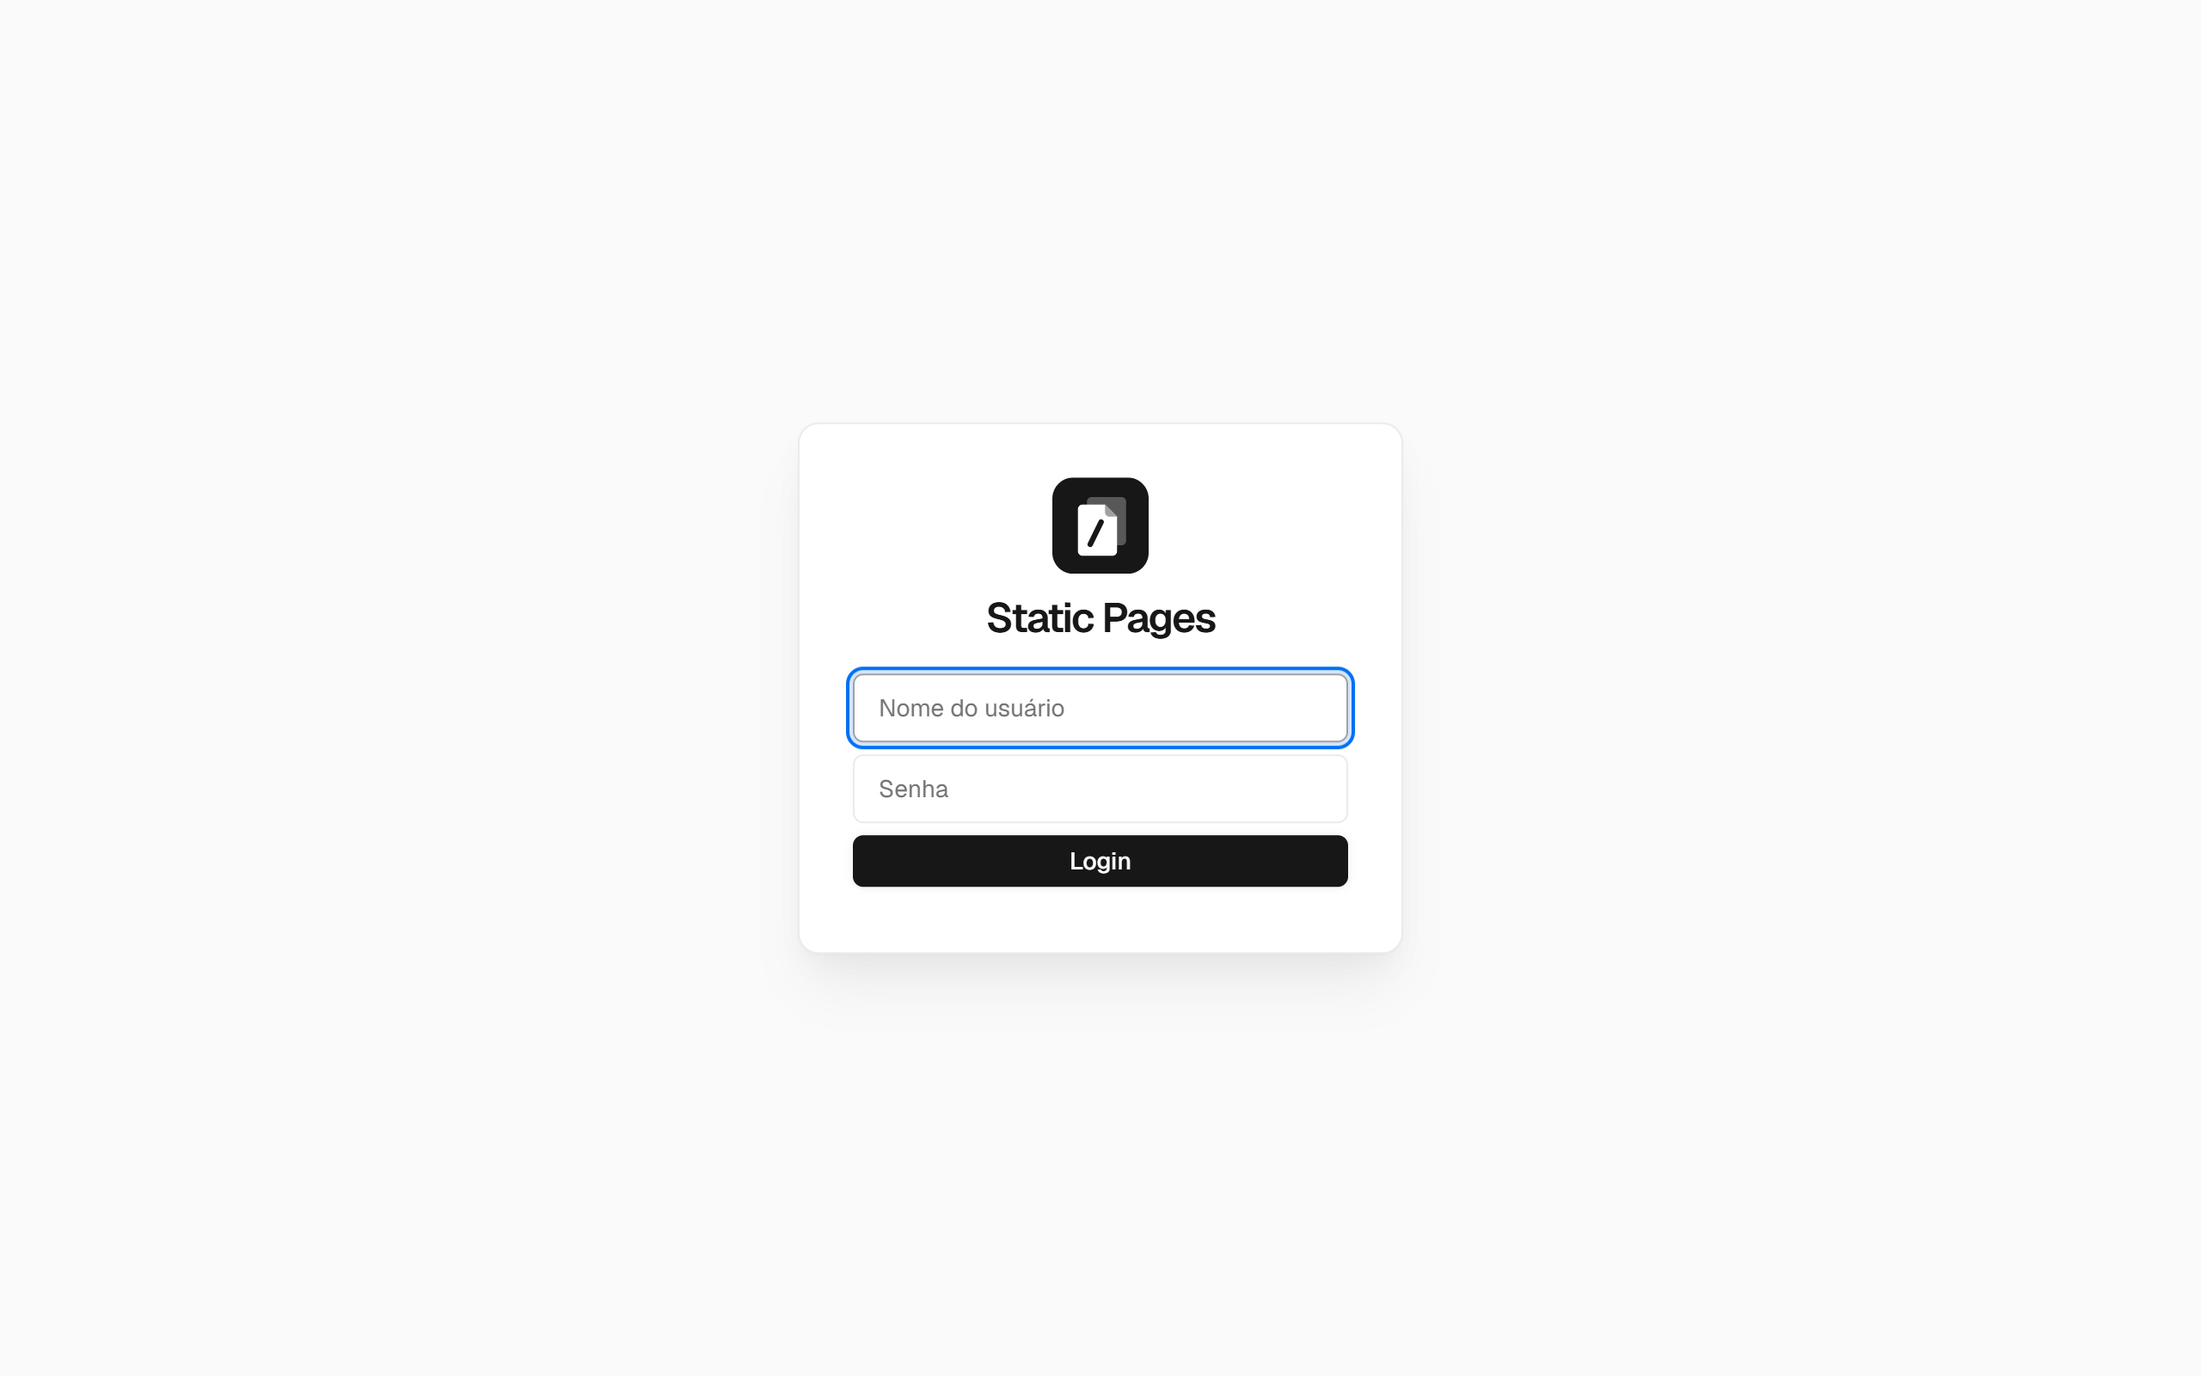
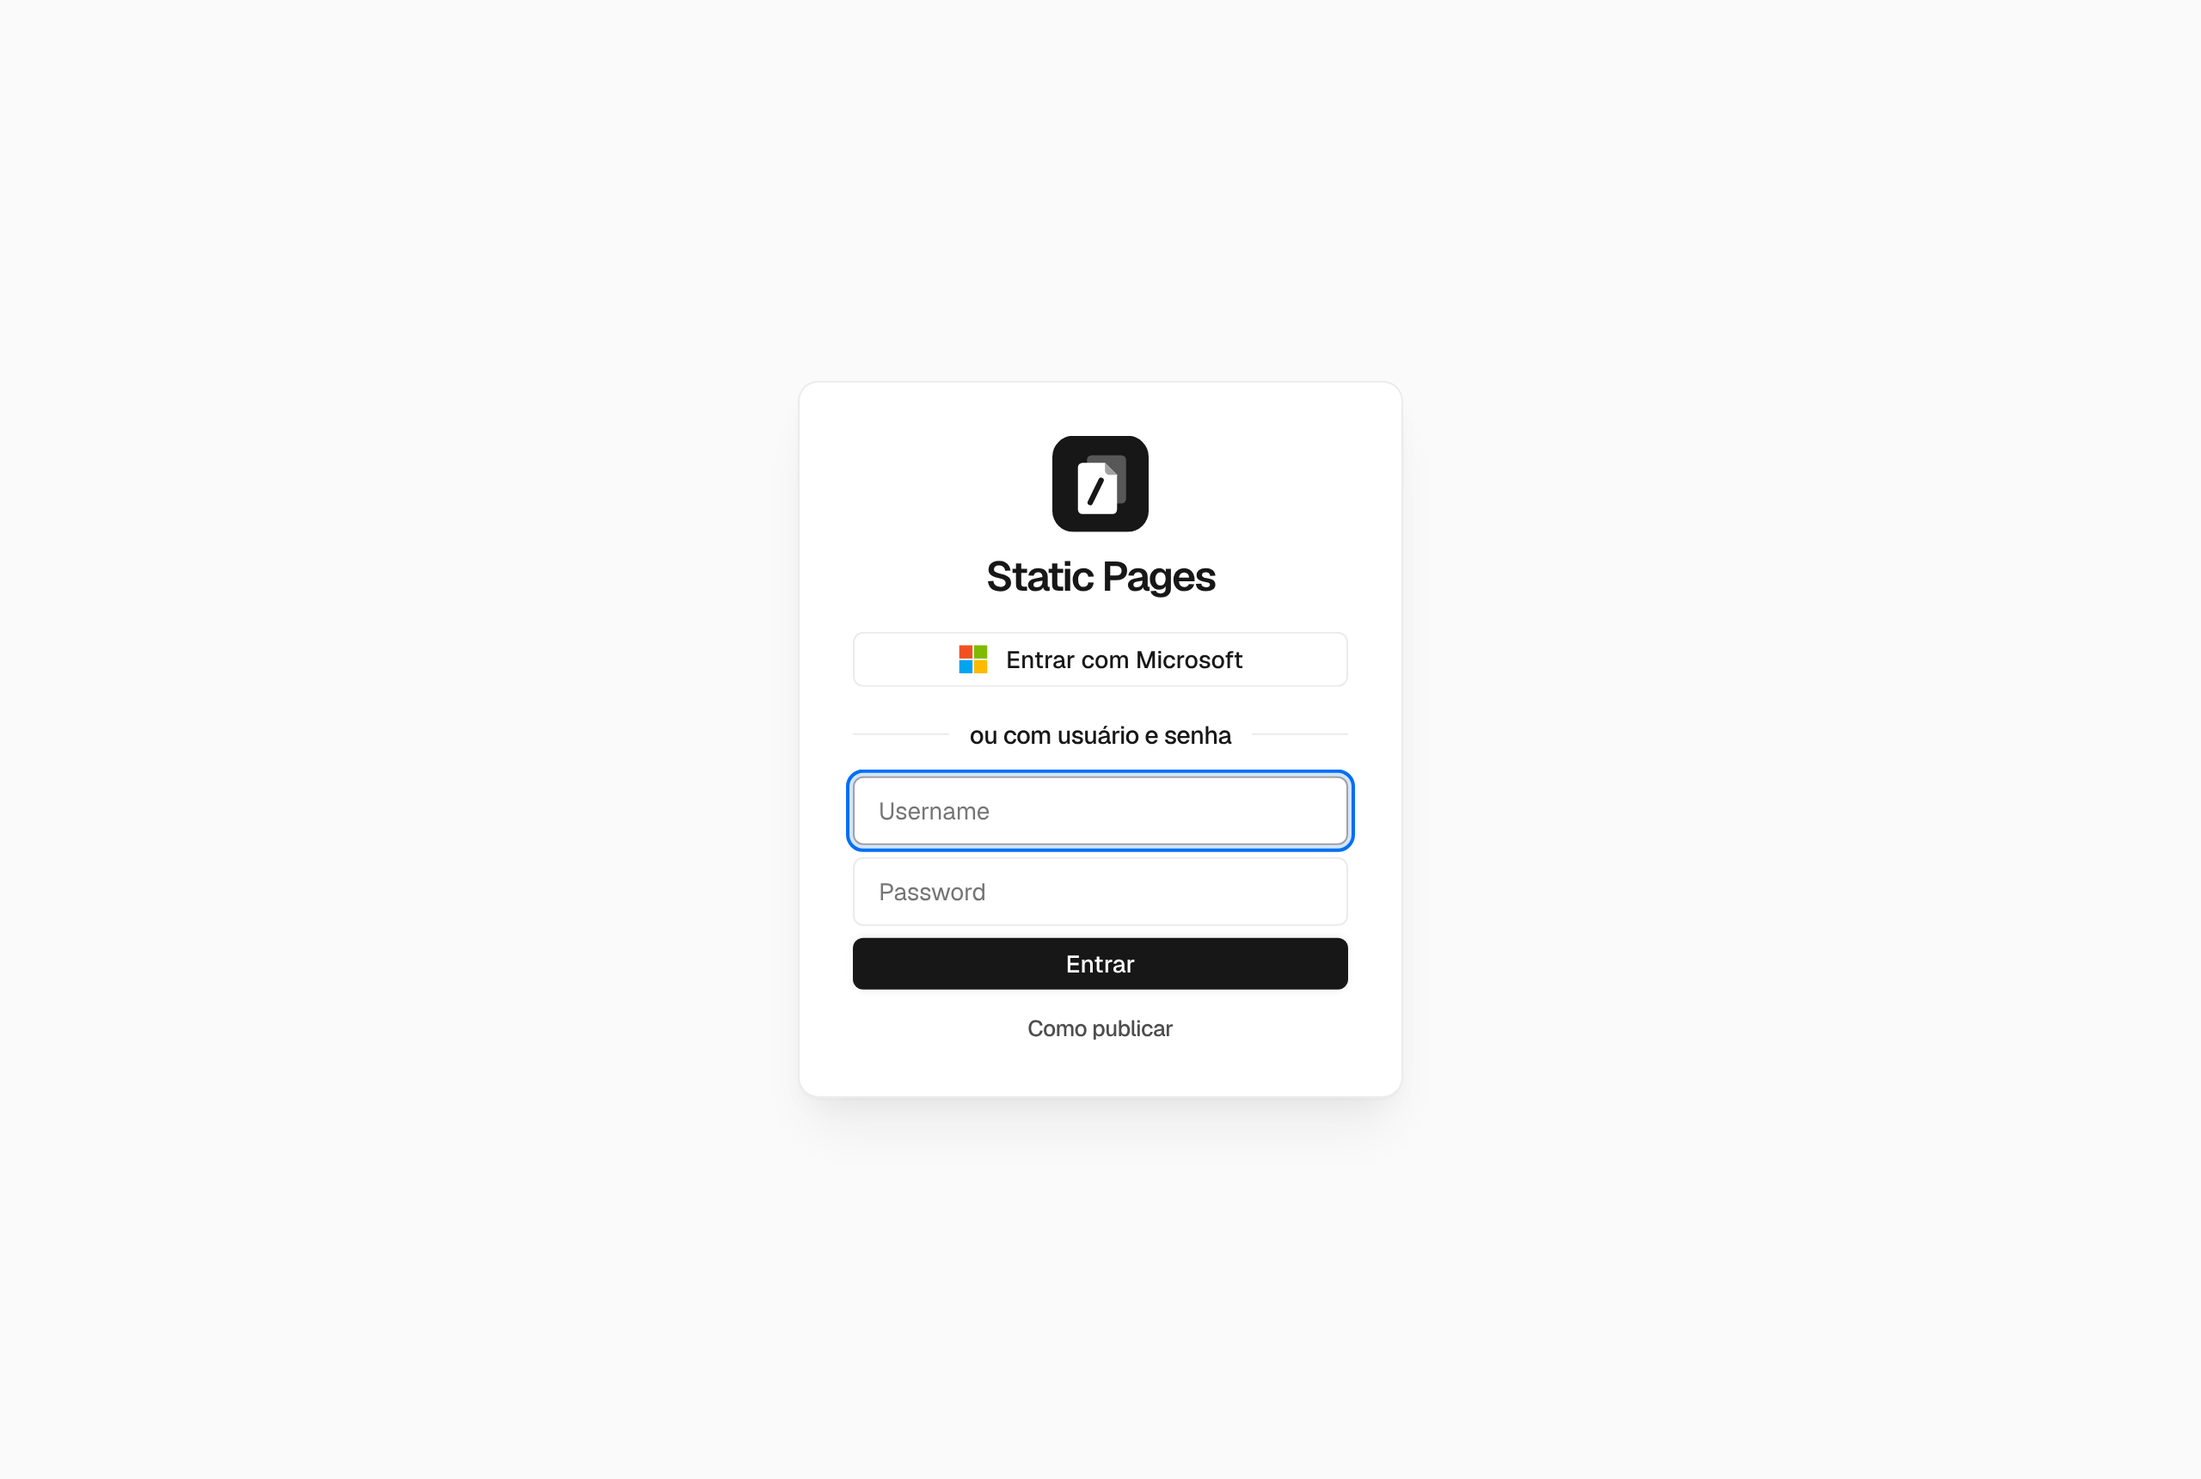
docs: README com prints das telas de acesso, cota, pedidos e guia
Novas capturas (dados fictícios): login com Microsoft, visão de membro com a
barra de espaço, Acessos e times, pessoas, Usuários, Pedidos, Atividade com
eventos de acesso e o guia. O script screenshots_acessos.py gera as telas de
acesso (cria pedidos com ID tokens de teste e limpa tudo no final); os outros
scripts aceitam BROWSER_PATH para rodar sem o Edge.

Changed region(s): [[0.375, 0.2812, 0.625, 0.7188]]

diff --git a/divulgacao/screenshots_acessos.py b/divulgacao/screenshots_acessos.py
@@ -1,0 +1,170 @@
+"""Prints das telas de acesso para o README (dados fictícios) -> docs/img/
+
+Telas: login com Microsoft, Acessos e times, pessoas do time, aba Usuários, aba Pedidos,
+Atividade (com eventos de acesso), visão de um membro (barra de espaço) e o guia /_ajuda/.
+
+Cria times, pessoas e pedidos de demonstração temporários (removidos no final) e simula o
+histórico interceptando a resposta, para que nenhum nome real do servidor apareça.
+Precisa de um container com o Entra de teste (ENTRA_TENANT_ID, ENTRA_CLIENT_ID e ENTRA_JWKS_FILE),
+porque os pedidos de acesso são criados com ID tokens assinados por uma chave de teste.
+
+Uso:  FB_ADMIN_PASSWORD=... SP_CONTAINER=static-pages BASE_URL=http://localhost:8080 \
+          python divulgacao/screenshots_acessos.py
+"""
+import base64
+import json
+import os
+import subprocess
+import sys
+import time
+import uuid
+from pathlib import Path
+
+import requests
+from cryptography.hazmat.primitives import hashes
+from cryptography.hazmat.primitives.asymmetric import padding, rsa
+
+sys.path.insert(0, str(Path(__file__).resolve().parent.parent / "tests"))
+from conftest import ADMIN_PASS, ADMIN_USER, BASE, CONTAINER, Api  # noqa: E402
+from playwright.sync_api import sync_playwright  # noqa: E402
+
+OUT = Path(__file__).parent.parent / "docs" / "img"
+ENTRA = f"{BASE}/admin/entra"
+SENHA = "SenhaDemo123456!"
+b64u = lambda b: base64.urlsafe_b64encode(b).rstrip(b"=").decode()
+
+TEAMS = {
+    "zz-vendas": ("Vendas", 500, ["ana.souza@exemplo.com", "bruno.lima@exemplo.com", "carla.dias@exemplo.com"], ["relatorio-mensal", "metas-2026"]),
+    "zz-marketing": ("Marketing", 1, ["diego.alves@exemplo.com"], ["campanha-verao"]),
+    "zz-produto": ("Produto", None, ["eva.martins@exemplo.com", "fabio.rocha@exemplo.com"], ["roadmap", "prototipo-app", "pesquisa-ux"]),
+}
+PEDIDOS = [("gustavo.nunes@exemplo.com", "Gustavo Nunes"), ("helena.prado@exemplo.com", "Helena Prado")]
+NOMES = {"ana.souza@exemplo.com": "Ana Souza", "bruno.lima@exemplo.com": "Bruno Lima", "carla.dias@exemplo.com": "Carla Dias",
+         "diego.alves@exemplo.com": "Diego Alves", "eva.martins@exemplo.com": "Eva Martins", "fabio.rocha@exemplo.com": "Fabio Rocha"}
+FAKE_LOG = "\n".join([
+    "2026-10-22T09:02:00Z\tana.souza@exemplo.com\tacesso_login\tEntrou com a conta Microsoft\t",
+    "2026-10-22T09:10:00Z\tgustavo.nunes@exemplo.com\tacesso_pedido\tPediu acesso (Gustavo Nunes)\t",
+    "2026-10-22T09:25:00Z\tadmin\tacesso_aprovado\tgustavo.nunes@exemplo.com no time Vendas\t",
+    "2026-10-22T10:05:00Z\tadmin\tacesso_papel\tbruno.lima@exemplo.com: Editor para Admin\t",
+    "2026-10-22T10:40:00Z\tdiego.alves@exemplo.com\tacesso_cota\tEnvio recusado: cota do time excedida (campanha.mp4)\t",
+    "2026-10-22T11:15:00Z\tana.souza@exemplo.com\tafter_upload\t/srv/vendas/relatorio-mensal/index.html\t",
+    "2026-10-22T11:42:00Z\teva.martins@exemplo.com\tafter_save\t/srv/produto/roadmap/index.html\t",
+]) + "\n"
+
+
+def entra_tokens():
+    """Gera as chaves de teste, grava o JWKS no container e devolve mint(email, nome)."""
+    cfg = requests.get(f"{ENTRA}/config", timeout=10).json()
+    if not cfg.get("habilitado"):
+        sys.exit("Entra ID desligado neste container")
+    run = lambda *c: subprocess.run(["docker", "exec", CONTAINER, *c], capture_output=True, text=True, check=True).stdout.strip()
+    tenant, jwks_path = run("printenv", "ENTRA_TENANT_ID"), run("printenv", "ENTRA_JWKS_FILE")
+    key = rsa.generate_private_key(public_exponent=65537, key_size=2048)
+    kid = f"demo-{uuid.uuid4().hex[:8]}"
+    nums = key.public_key().public_numbers()
+    jwks = {"keys": [{"kty": "RSA", "kid": kid, "use": "sig", "alg": "RS256", "n": b64u(nums.n.to_bytes(256, "big")), "e": b64u(nums.e.to_bytes(3, "big"))}]}
+    subprocess.run(["docker", "exec", "-i", CONTAINER, "sh", "-c", f"cat > {jwks_path} && chmod 644 {jwks_path}"], input=json.dumps(jwks).encode(), check=True)
+
+    def mint(email, nome):
+        now = int(time.time())
+        head = b64u(json.dumps({"alg": "RS256", "kid": kid, "typ": "JWT"}).encode())
+        body = b64u(json.dumps({"iss": f"https://login.microsoftonline.com/{tenant}/v2.0", "tid": tenant, "aud": cfg["clientId"], "iat": now, "nbf": now,
+                                "exp": now + 3600, "preferred_username": email, "name": nome, "jti": str(uuid.uuid4())}).encode())
+        return f"{head}.{body}.{b64u(key.sign(f'{head}.{body}'.encode(), padding.PKCS1v15(), hashes.SHA256()))}"
+    return mint
+
+
+def setup(api, mint):
+    creds = {}
+    for slug, (nome, cota, pessoas, paginas) in TEAMS.items():
+        api.write(f"/{slug}/.time.json", json.dumps({"nome": nome, **({"cota_mb": cota} if cota else {})}))
+        api.write(f"/{slug}/index.html", "<h1>time</h1>")
+        for p in paginas:
+            api.write(f"/{slug}/{p}/index.html", "<h1>pagina</h1>" + "x" * 40000)
+        for u in pessoas:
+            api.add_user(f"zz.{u}", SENHA, f"/{slug}")
+            # o login Microsoft guarda o nome (é o que a tela mostra) e troca a senha: guardamos a nova
+            r = requests.post(f"{ENTRA}/login", json={"idToken": mint(f"zz.{u}", NOMES[u])}, timeout=10)
+            creds[u] = r.json()
+    api.write("/zz-marketing/campanha-verao/dados.json", "x" * 680_000)   # ~70% da cota de 1 MB
+    for email, nome in PEDIDOS:
+        requests.post(f"{ENTRA}/solicitar", json={"idToken": mint(email, nome)}, timeout=10)
+    return creds
+
+
+def cleanup(api):
+    api.cleanup()
+    for email, _ in PEDIDOS:
+        requests.post(f"{ENTRA}/pedidos/remover", json={"email": email}, headers=api.h, timeout=10)
+
+
+def shoot():
+    OUT.mkdir(parents=True, exist_ok=True)
+    api = Api(ADMIN_USER, ADMIN_PASS)
+    api.cleanup()
+    mint = entra_tokens()
+    creds = setup(api, mint)
+    try:
+        with sync_playwright() as p:
+            b = p.chromium.launch(channel=os.environ.get("BROWSER_CHANNEL") or None, executable_path=os.environ.get("BROWSER_PATH") or None)
+            ctx = lambda h=860: b.new_context(viewport={"width": 1280, "height": h}, device_scale_factor=2)
+            # nomes "zz." e "/zz-" nunca aparecem: troca no DOM antes do print
+            clean = """() => { const w = document.createTreeWalker(document.body, NodeFilter.SHOW_TEXT);
+                for (let n; (n = w.nextNode());) n.nodeValue = n.nodeValue.replace(/\\bzz[.-]/g, ""); }"""
+
+            anon = ctx().new_page()
+            anon.goto(f"{BASE}/admin/login")
+            anon.wait_for_selector(".sp-entra button", timeout=15000)
+            anon.wait_for_timeout(600)
+            anon.screenshot(path=OUT / "login.png")
+            anon.goto(f"{BASE}/_ajuda/", wait_until="networkidle")
+            anon.screenshot(path=OUT / "guia.png", clip={"x": 0, "y": 0, "width": 1280, "height": 860})
+
+            pg = ctx().new_page()
+            pg.goto(f"{BASE}/admin/login")
+            pg.evaluate("t => localStorage.setItem('jwt', t)", api.token)
+            pg.goto(f"{BASE}/admin/times", wait_until="networkidle")
+            pg.wait_for_timeout(1500)
+            pg.evaluate(clean)
+            box = pg.locator("#teams-section").bounding_box()
+            pg.screenshot(path=OUT / "times.png", clip={"x": 0, "y": 0, "width": 1280, "height": box["y"] + box["height"] + 24})
+
+            pg.locator("article.card").first.locator(".team-title h3").click()
+            pg.wait_for_selector("#dlg-people[open]")
+            pg.evaluate(clean)
+            pg.wait_for_timeout(300)
+            pg.screenshot(path=OUT / "pessoas.png")
+            pg.click("#people-close")
+
+            pg.goto(f"{BASE}/admin/times#usuarios", wait_until="networkidle")
+            pg.wait_for_timeout(1200)
+            pg.evaluate(clean)
+            pg.screenshot(path=OUT / "usuarios.png", clip={"x": 0, "y": 0, "width": 1280, "height": 760})
+
+            pg.goto(f"{BASE}/admin/times#acessos", wait_until="networkidle")
+            pg.wait_for_timeout(1200)
+            pg.evaluate(clean)
+            pg.screenshot(path=OUT / "pedidos.png", clip={"x": 0, "y": 0, "width": 1280, "height": 560})
+
+            pg.route("**/admin/_auditoria", lambda r: r.fulfill(body=FAKE_LOG, content_type="text/plain"))
+            pg.goto(f"{BASE}/admin/times#atividade", wait_until="networkidle")
+            pg.wait_for_timeout(1000)
+            pg.evaluate(clean)
+            pg.screenshot(path=OUT / "atividade.png", clip={"x": 0, "y": 0, "width": 1280, "height": 660})
+
+            membro = Api(creds["diego.alves@exemplo.com"]["usuario"], creds["diego.alves@exemplo.com"]["senha"])
+            mp = ctx(600).new_page()
+            mp.goto(f"{BASE}/admin/login")
+            mp.evaluate("t => localStorage.setItem('jwt', t)", membro.token)
+            mp.goto(f"{BASE}/admin/files/", wait_until="networkidle")
+            mp.wait_for_timeout(1500)
+            mp.evaluate(clean)
+            mp.screenshot(path=OUT / "membro.png")
+            b.close()
+    finally:
+        cleanup(api)
+    print("ok:", sorted(f.name for f in OUT.glob("*.png")))
+
+
+if __name__ == "__main__":
+    shoot()

diff --git a/divulgacao/screenshots_painel.py b/divulgacao/screenshots_painel.py
@@ -1,4 +1,4 @@
-"""Prints das telas do painel para o README (dados fictícios) -> docs/img/
+"""Prints do painel (lixeira) para o README (dados fictícios; Acessos e Atividade: screenshots_acessos.py) -> docs/img/
 
 Cria times de demonstração temporários (removidos no final, inclusive da
 lixeira) e simula Atividade/Lixeira interceptando as respostas, para que
@@ -54,7 +54,7 @@ def shoot():
     setup(api)
     try:
         with sync_playwright() as p:
-            b = p.chromium.launch(channel=os.environ.get("BROWSER_CHANNEL") or None)
+            b = p.chromium.launch(channel=os.environ.get("BROWSER_CHANNEL") or None, executable_path=os.environ.get("BROWSER_PATH") or None)
             pg = b.new_page(viewport={"width": 1280, "height": 860}, device_scale_factor=2)
             pg.goto(f"{BASE}/admin/login")
             pg.evaluate("t => localStorage.setItem('jwt', t)", api.token)
@@ -67,12 +67,6 @@ def shoot():
                   if (a && name) a.textContent = name.textContent.charAt(0);
                 }); }"""
 
-            pg.goto(f"{BASE}/admin/times", wait_until="networkidle")
-            pg.wait_for_timeout(1200)
-            pg.evaluate(clean)
-            box = pg.locator("#teams-section").bounding_box()
-            pg.screenshot(path=OUT / "times.png", clip={"x": 0, "y": 0, "width": 1280, "height": box["y"] + box["height"] + 24})
-
             pg.route("**/admin/api/raw/_lixeira/.registro", lambda r: r.fulfill(body=FAKE_TRASH, content_type="text/plain"))
             pg.route("**/admin/_auditoria", lambda r: r.fulfill(body=FAKE_LOG, content_type="text/plain"))
             pg.goto(f"{BASE}/admin/times#lixeira", wait_until="networkidle")
@@ -80,10 +74,6 @@ def shoot():
             pg.evaluate(clean)
             pg.screenshot(path=OUT / "lixeira.png", clip={"x": 0, "y": 0, "width": 1280, "height": 560})
 
-            pg.goto(f"{BASE}/admin/times#atividade", wait_until="networkidle")
-            pg.wait_for_timeout(1000)
-            pg.evaluate(clean)
-            pg.screenshot(path=OUT / "atividade.png", clip={"x": 0, "y": 0, "width": 1280, "height": 660})
             b.close()
     finally:
         api.cleanup()

diff --git a/divulgacao/screenshots.py b/divulgacao/screenshots.py
@@ -1,6 +1,7 @@
 """Capturas do README (1280x800 @2x) -> docs/img/*.png
 
 Uso:  FB_USER=admin FB_PASS=... python divulgacao/screenshots.py
+      (sem Edge: BROWSER_CHANNEL= BROWSER_PATH=/caminho/chromium)
 """
 import os
 from pathlib import Path
@@ -14,7 +15,7 @@ OUT = Path(__file__).parent.parent / "docs" / "img"
 def main() -> None:
     OUT.mkdir(parents=True, exist_ok=True)
     with sync_playwright() as p:
-        browser = p.chromium.launch(channel="msedge")
+        browser = p.chromium.launch(channel=os.environ.get("BROWSER_CHANNEL", "msedge") or None, executable_path=os.environ.get("BROWSER_PATH") or None)
         page = browser.new_page(viewport={"width": 1280, "height": 800}, device_scale_factor=2)
 
         # Home com pastas fictícias: intercepta /_pastas/ e os meta.json

diff --git a/README.md b/README.md
@@ -100,20 +100,32 @@ docker compose up -d --build
 
 <table>
   <tr>
-    <td width="50%"><b>Home</b>: páginas por time, filtro e visitas<br><img src="docs/img/site.png" alt="Home com cards das páginas publicadas"></td>
-    <td width="50%"><b>Painel</b>: arquivos com colunas Time e Alterado por<br><img src="docs/img/admin.png" alt="Listagem de arquivos no painel"></td>
+    <td width="50%"><b>Home</b><br><img src="docs/img/site.png" alt="Home com cards das páginas publicadas"></td>
+    <td><b>Painel</b><br><img src="docs/img/admin.png" alt="Listagem de arquivos no painel"></td>
   </tr>
   <tr>
-    <td><b>Times</b>: pessoas, páginas, espaço, cota e visitas<br><img src="docs/img/times.png" alt="Tela de gestão de times"></td>
-    <td><b>Atividade</b>: quem fez o quê e quando<br><img src="docs/img/atividade.png" alt="Histórico de atividade"></td>
+    <td width="50%"><b>Login: Microsoft ou usuário e senha</b><br><img src="docs/img/login.png" alt="Tela de login com o botão Entrar com Microsoft"></td>
+    <td><b>Visão de um membro: time, papel e espaço do time</b><br><img src="docs/img/membro.png" alt="Painel de um membro com a barra de espaço"></td>
   </tr>
   <tr>
-    <td><b>Lixeira</b>: restaurar ou apagar de vez<br><img src="docs/img/lixeira.png" alt="Lixeira com restauração"></td>
-    <td><b>Login</b><br><img src="docs/img/login.png" alt="Tela de login do painel"></td>
+    <td width="50%"><b>Acessos e times: pessoas, páginas, espaço, cota e visitas</b><br><img src="docs/img/times.png" alt="Tela Acessos e times"></td>
+    <td><b>Pessoas do time</b><br><img src="docs/img/pessoas.png" alt="Diálogo com as pessoas do time"></td>
+  </tr>
+  <tr>
+    <td width="50%"><b>Usuários: papel e time de cada pessoa</b><br><img src="docs/img/usuarios.png" alt="Aba Usuários"></td>
+    <td><b>Pedidos de acesso: aprovar e escolher o time</b><br><img src="docs/img/pedidos.png" alt="Aba Pedidos"></td>
+  </tr>
+  <tr>
+    <td width="50%"><b>Atividade: arquivos e acessos (login, pedido, papel, cota)</b><br><img src="docs/img/atividade.png" alt="Histórico de atividade"></td>
+    <td><b>Lixeira: restaurar ou apagar de vez</b><br><img src="docs/img/lixeira.png" alt="Lixeira com restauração"></td>
+  </tr>
+  <tr>
+    <td width="50%"><b>Guia "Como publicar"</b><br><img src="docs/img/guia.png" alt="Guia de publicação"></td>
+    <td><b>404</b><br><img src="docs/img/404.png" alt="Página 404"></td>
   </tr>
 </table>
 
-<sub>Imagens com dados fictícios, geradas por <code>divulgacao/screenshots.py</code> e <code>divulgacao/screenshots_painel.py</code>.</sub>
+<sub>Imagens com dados fictícios, geradas por <code>divulgacao/screenshots.py</code>, <code>screenshots_acessos.py</code> e <code>screenshots_painel.py</code>.</sub>
 
 ## 🧱 Arquitetura
 
